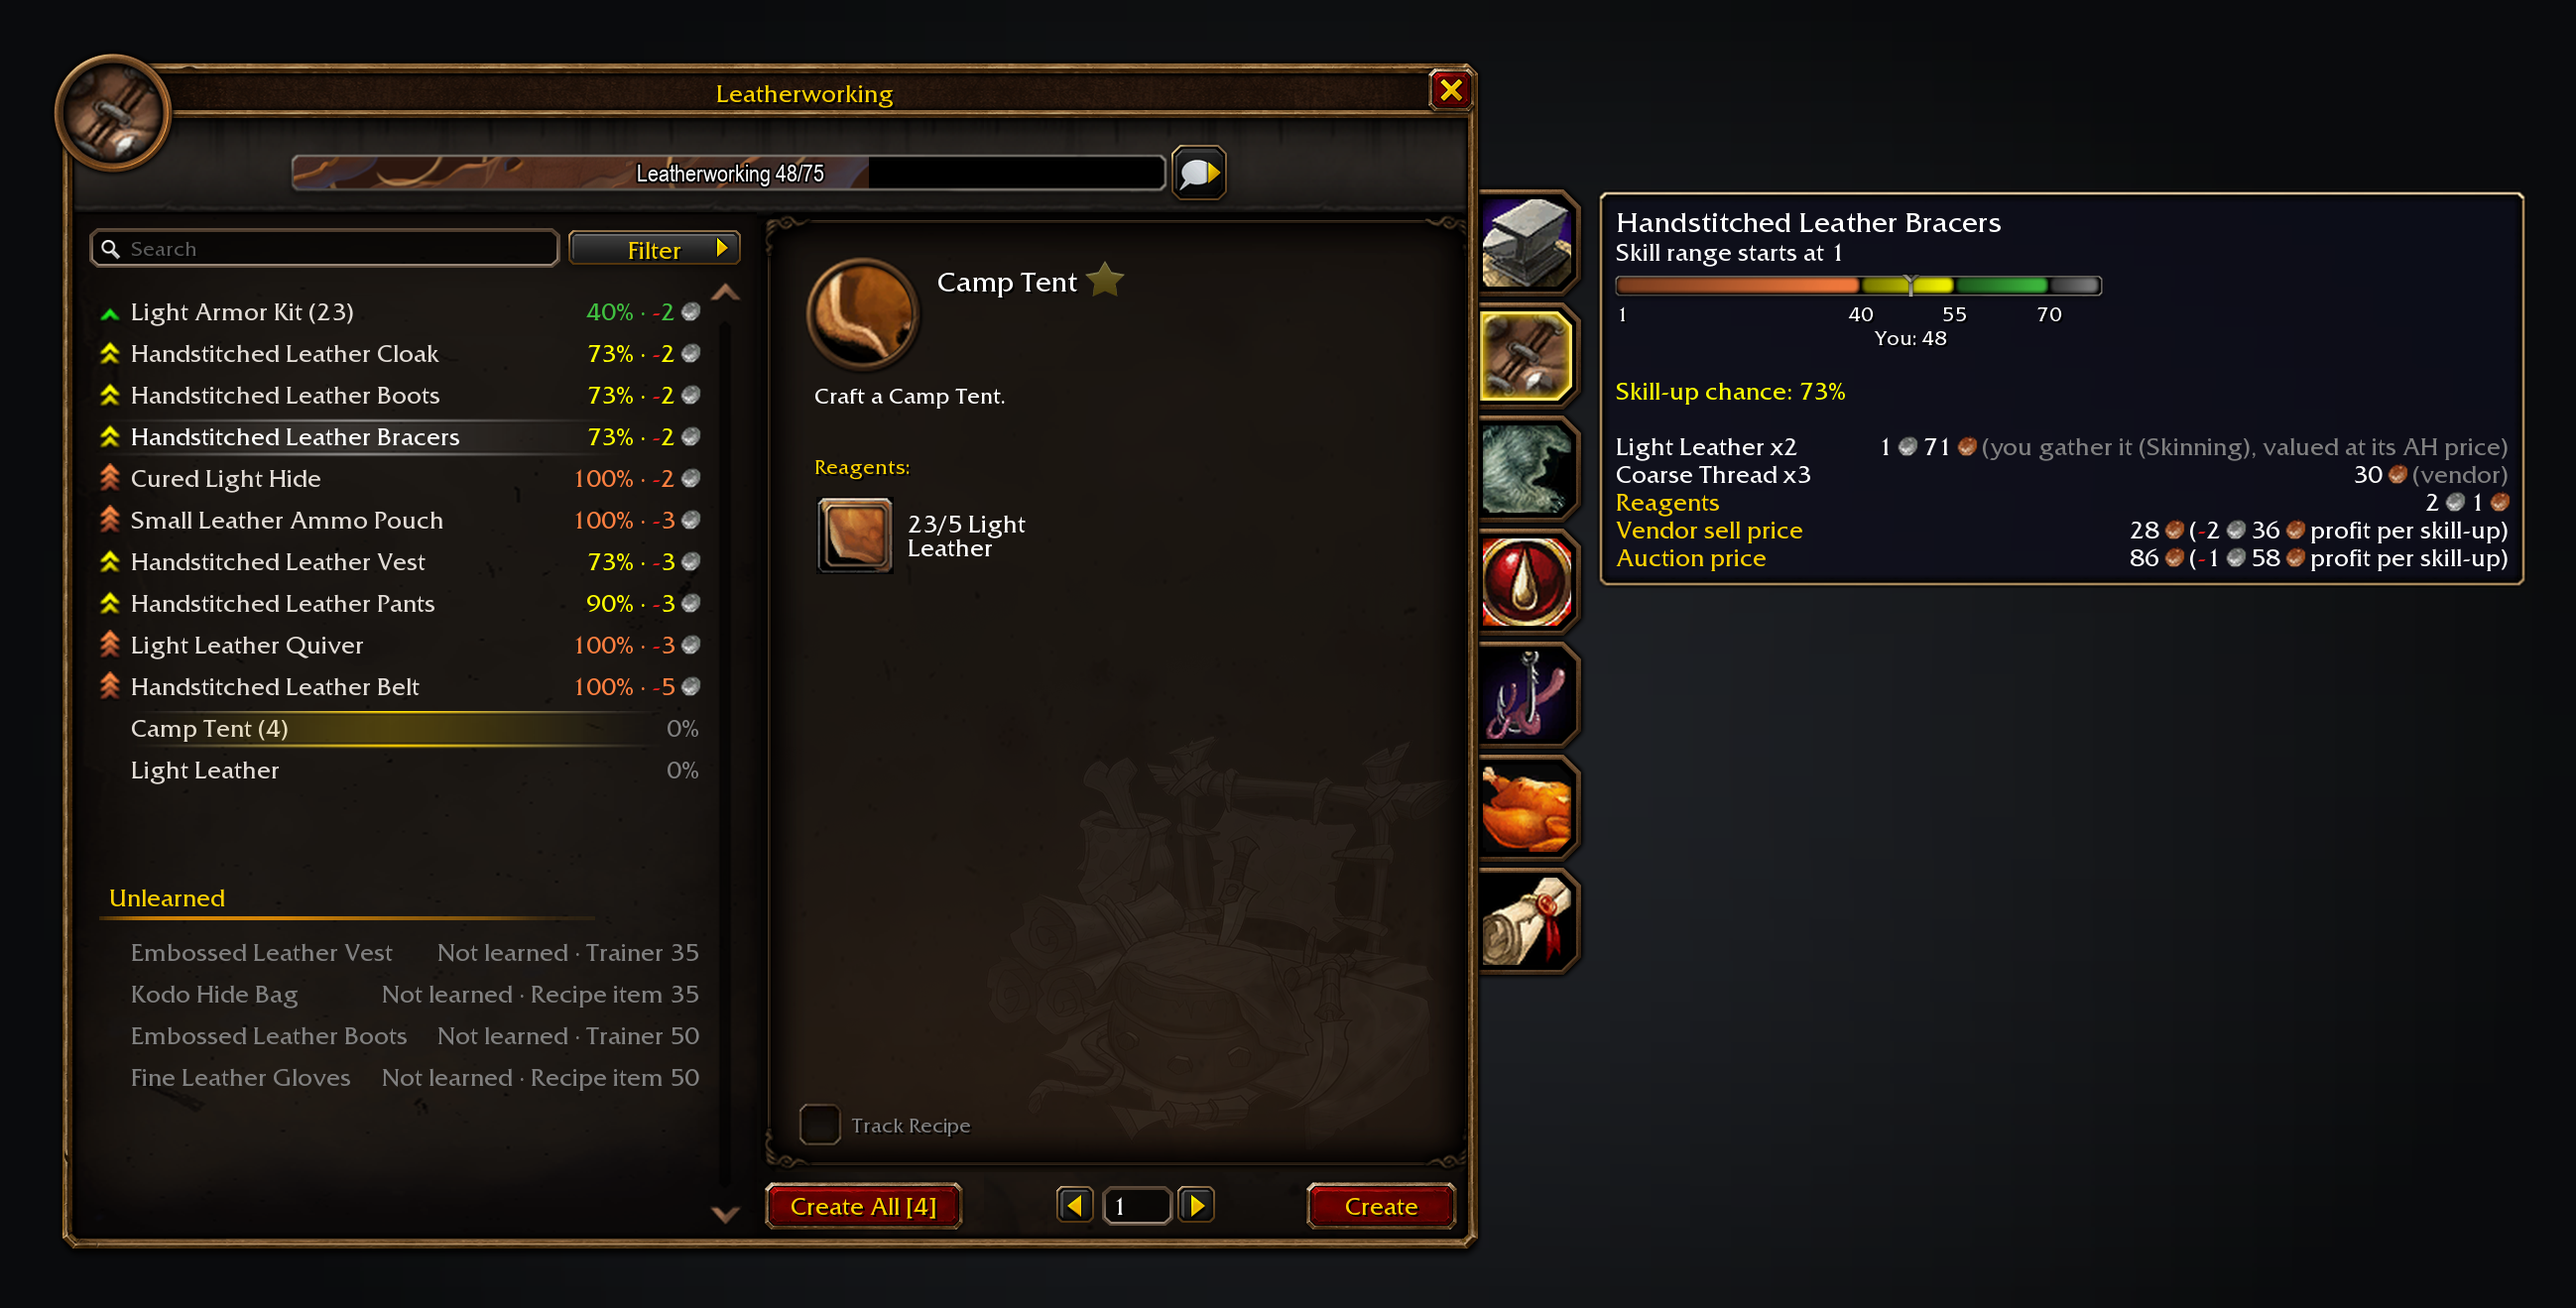
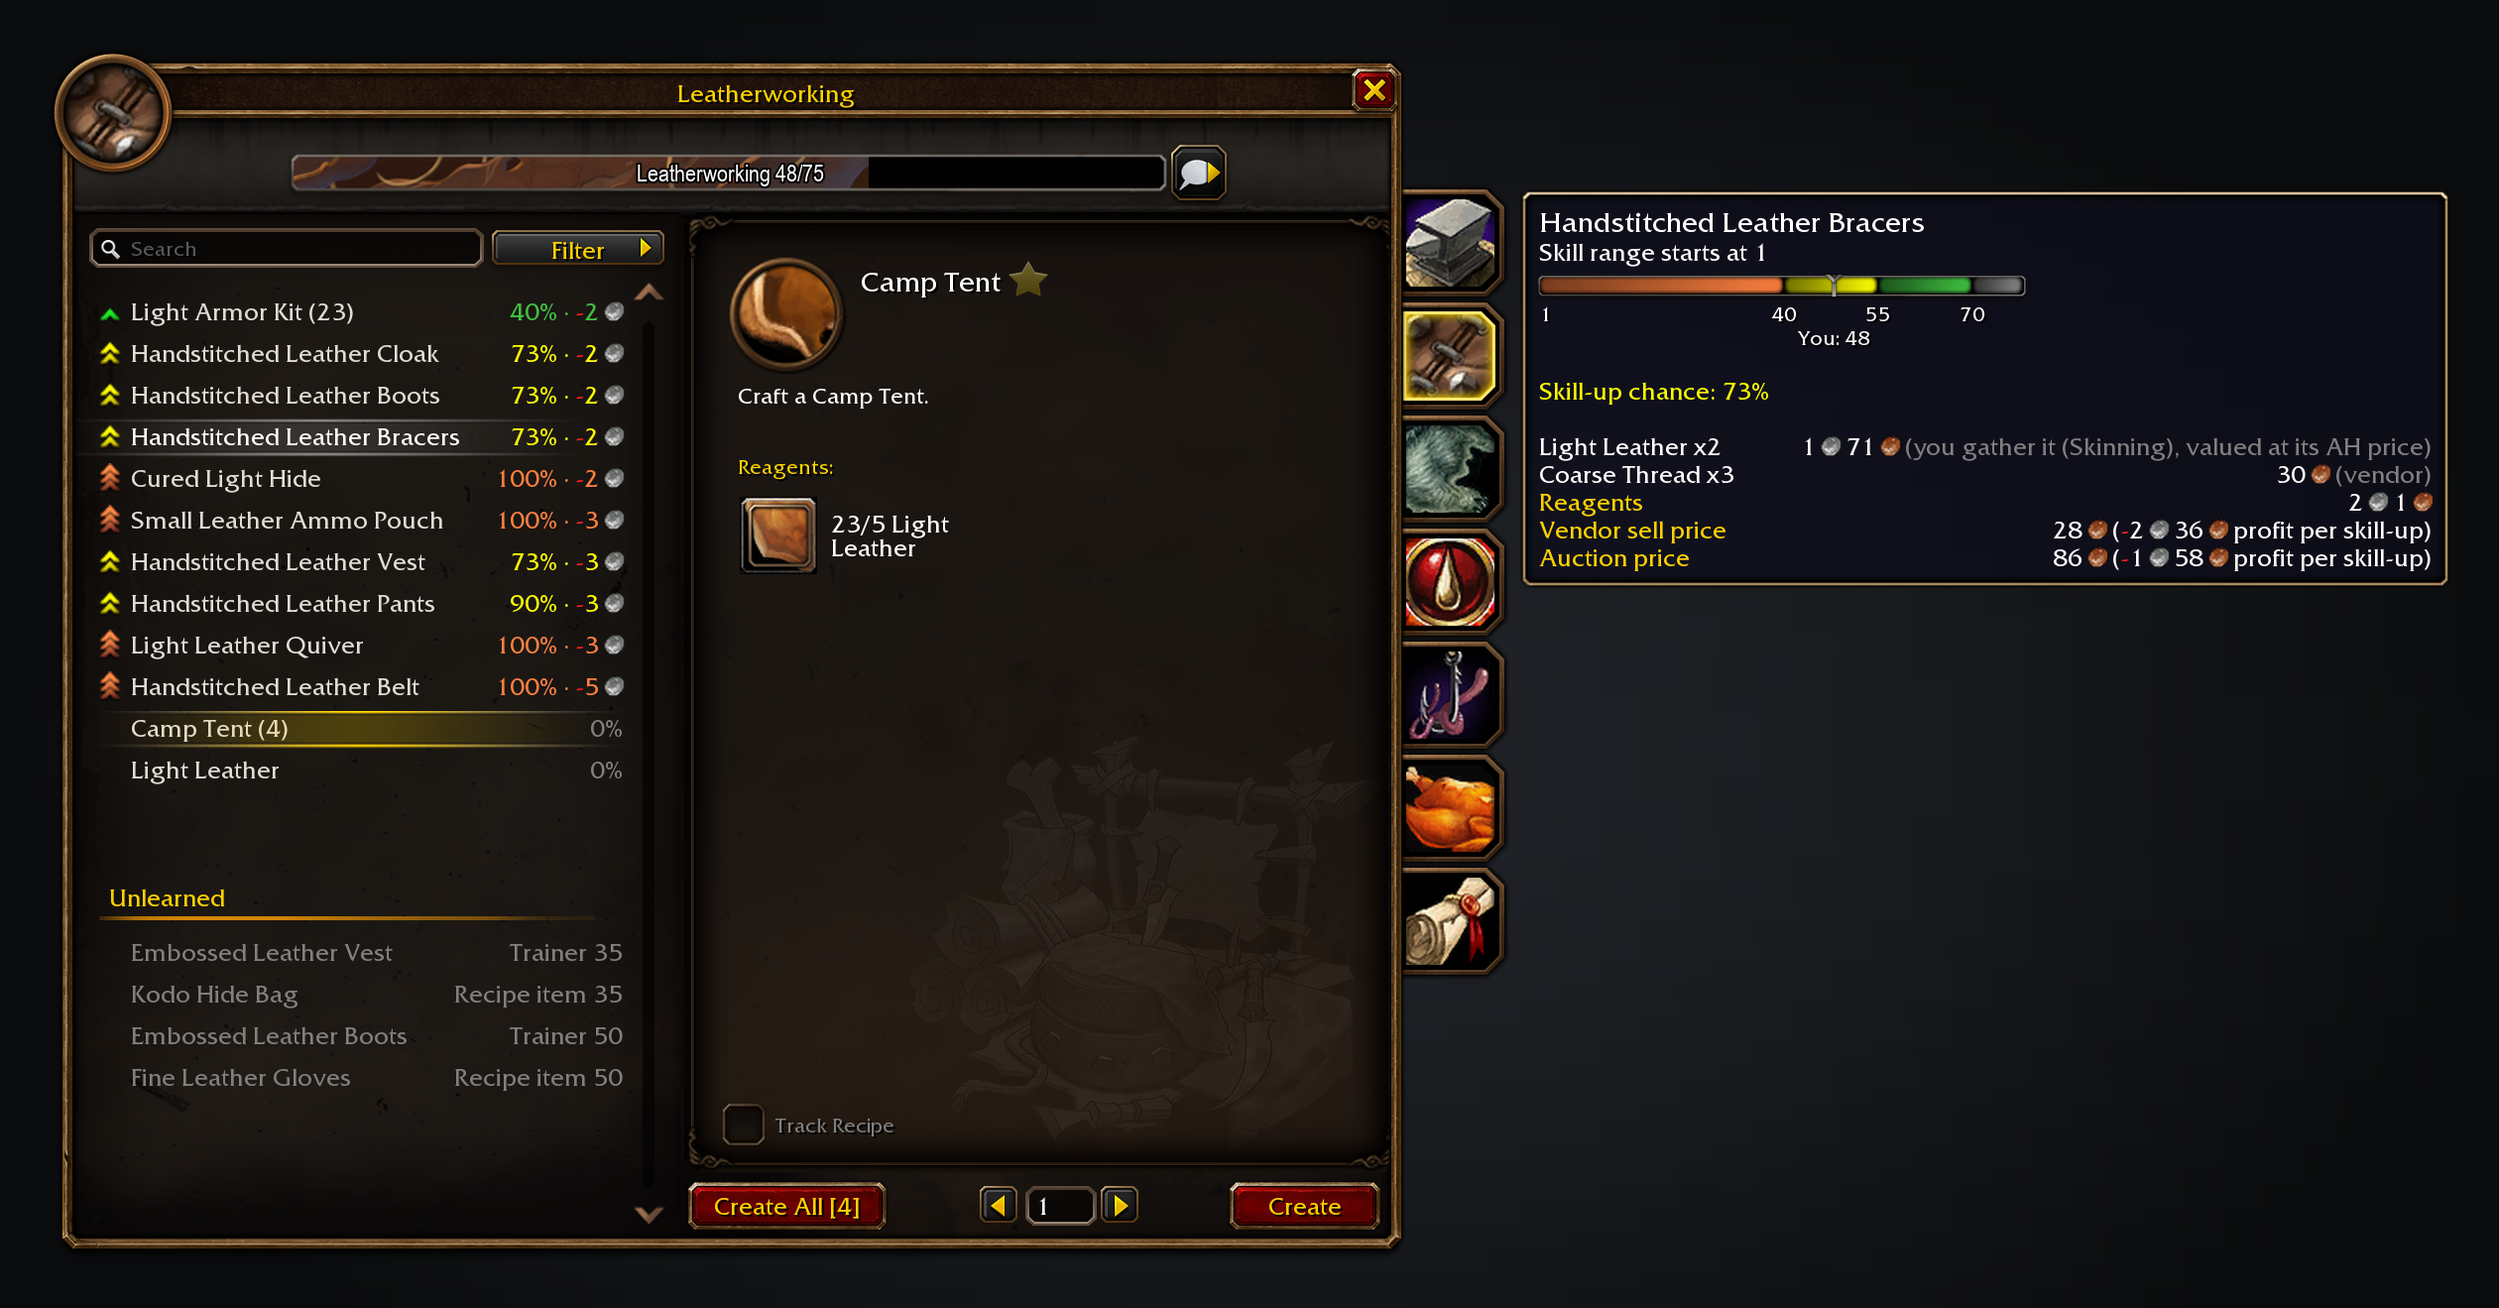
SkillUp 1.14.4: unlearned rows, Auctionator list line, ForeverCore 1.15.2 (#863)
Closes #854
Closes #860
Refs #807

## Unlearned rows (#854)

### What was wrong

Every row SkillUp adds for an unlearned recipe read `Not learned ·
<source>`, for example "Not learned · Recipe item 65". Those rows sit
only under the client's Unlearned divider (`BuildSorted` in
`UI/RecipeList.lua`), so the prefix repeated the divider and took the
width the recipe name needed: "Harveste... Not Learned - Recipe item
65".

### The fix

The row text is now only where and at what skill the recipe is learned
("Recipe item 65", "Trainer 60"), still grey. The recipe tooltip keeps
"Not learned · <source>", so the locale string stays in use and no
translation changes.

### Checks

- `tests/unlearned_list_spec.lua`: red before the fix ("the row says
only where and at what skill"), green after; the row-text-off case still
shows the source.
- The spec also checks the width: a long name keeps the row less the
skill-up column and the shorter source text, instead of the old cut.
- `tools/screenshots.py` draws the new row text, the RecipeList font
binding is re-reviewed, and `window-unlearned.png` is re-rendered (glyph
and screenshot checks pass).
- luacheck and StyLua clean on the changed files. The typecheck runs in
CI.

## Screenshots (rendered mock, not a client capture)

| Before (main 1bc715a) | After (335d70e) |
| --- | --- |
|
![before](https://raw.githubusercontent.com/cjber/skillup-forever/1bc715a3e89b96380e56a0c0d7f44d7f3335bea3/docs/screenshots/window-unlearned.png)
|
[…]

diff --git a/tools/screenshots.py b/tools/screenshots.py
@@ -251,7 +251,7 @@ def range_thresholds(recipe_id, t=None):
 def unlearned_text(recipe_id):
     """UI/RecipeList.lua UnlearnedText: the grey marker on a recipe the addon added."""
     source = unlearned_source(recipe_id)
-    return None if source is None else f"Not learned · {source[0]} {source[1]}"
+    return None if source is None else f"{source[0]} {source[1]}"
 
 
 BAGS = {2318: 23}  # Light Leather

diff --git a/CHANGELOG.md b/CHANGELOG.md
@@ -10,6 +10,16 @@ Each version's entry is also its release notes on GitHub, CurseForge and Wago. O
 verbatim rather than rewritten as the addon moves. API changes other addons' authors need go under an
 optional `### For addon authors` subsection after a version's player bullets.
 
+## [1.14.4] - 2026-11-19
+
+### Fixed
+
+- **Bought reagents stay in your route after a price change.** When the auction house price of an intermediate such as Light Leather moved, the route stopped crafting it from the Ruined Leather Scraps you had already bought and asked for new materials instead. Now the route makes that intermediate from what you hold first, and only asks you to buy the rest. Thanks to the player who reported it on CurseForge (#858).
+- **Unlearned recipes show their full names.** Rows under the Unlearned divider now say only where and at what skill you learn the recipe, such as "Trainer 60" or "Recipe item 65", so long names are no longer cut short. The recipe's tooltip still says "Not learned". Thanks to the player who suggested it on CurseForge (#854).
+- **SkillUp names an Auctionator list only when it keeps one.** The route page, the shopping list and the auction house search tooltip could name a "SkillUp:" Auctionator list for a route you weren't tracking, or with auction search off, when no such list existed. Track a route with Buy reagents on and its list appears (#860).
+- **The SkillUp tab stays under the game's profession tabs.** Another addon's frame at the bottom right of the Professions window no longer pulls the tab to the bottom of the window or off screen. Thanks to the players who reported it on CurseForge (cjber/forever-core#862, Refs #807).
+- **The Forever tracker column sits under the quest tracker** and follows it as quests come and go, moving left of it only when there is no room below. Right-click a Forever section and pick Tracker position to choose (cjber/forever-core#850).
+
 ## [1.14.3] - 2026-11-18
 
 ### Fixed
